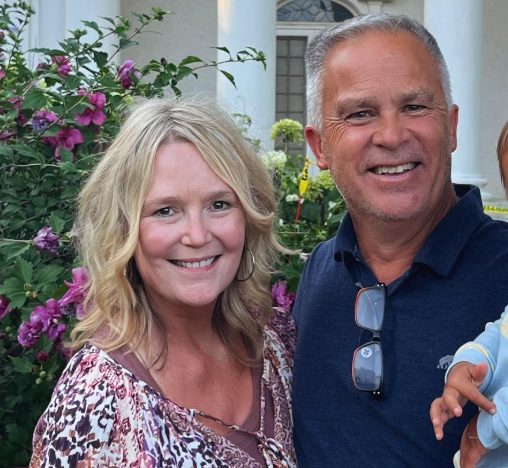
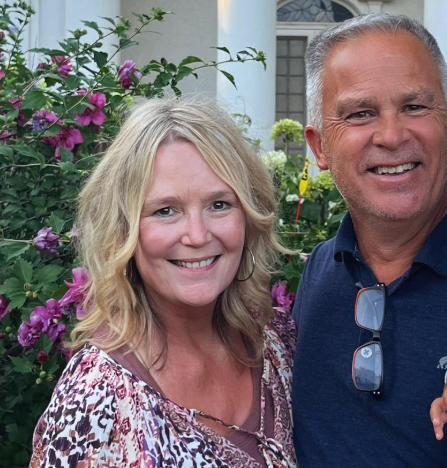
Add Facebook feed section, crop baby hand from photo

diff --git a/index.html b/index.html
@@ -133,6 +133,28 @@
     </div>
   </section>
 
+  <!-- What's New / Facebook Feed -->
+  <section class="section feed-section" id="news">
+    <div class="container">
+      <h2 class="section-title">What's New</h2>
+      <p class="section-subtitle">Follow along for daily specials, events &amp; updates</p>
+      <div class="facebook-feed">
+        <iframe
+          src="https://www.facebook.com/plugins/page.php?href=https%3A%2F%2Fwww.facebook.com%2F4thstreetcoffeehouse&tabs=timeline&width=500&height=600&small_header=true&adapt_container_width=true&hide_cover=false&show_facepile=false&appId"
+          width="500"
+          height="600"
+          style="border:none;overflow:hidden"
+          scrolling="no"
+          frameborder="0"
+          allowfullscreen="true"
+          allow="autoplay; clipboard-write; encrypted-media; picture-in-picture; web-share"
+          loading="lazy"
+          title="4th Street Coffee House Facebook Feed">
+        </iframe>
+      </div>
+    </div>
+  </section>
+
   <!-- Hours & Location Section -->
   <section class="section hours-section" id="hours">
     <div class="container">

diff --git a/css/style.css b/css/style.css
@@ -343,6 +343,22 @@ body {
   box-shadow: var(--shadow-card);
 }
 
+/* ---- Facebook Feed Section ---- */
+.feed-section {
+  background: var(--color-cream);
+}
+
+.facebook-feed {
+  display: flex;
+  justify-content: center;
+}
+
+.facebook-feed iframe {
+  border-radius: var(--radius);
+  box-shadow: var(--shadow-card);
+  max-width: 100%;
+}
+
 /* ---- Hours Section ---- */
 .hours-section {
   background: var(--color-brown-dark);
